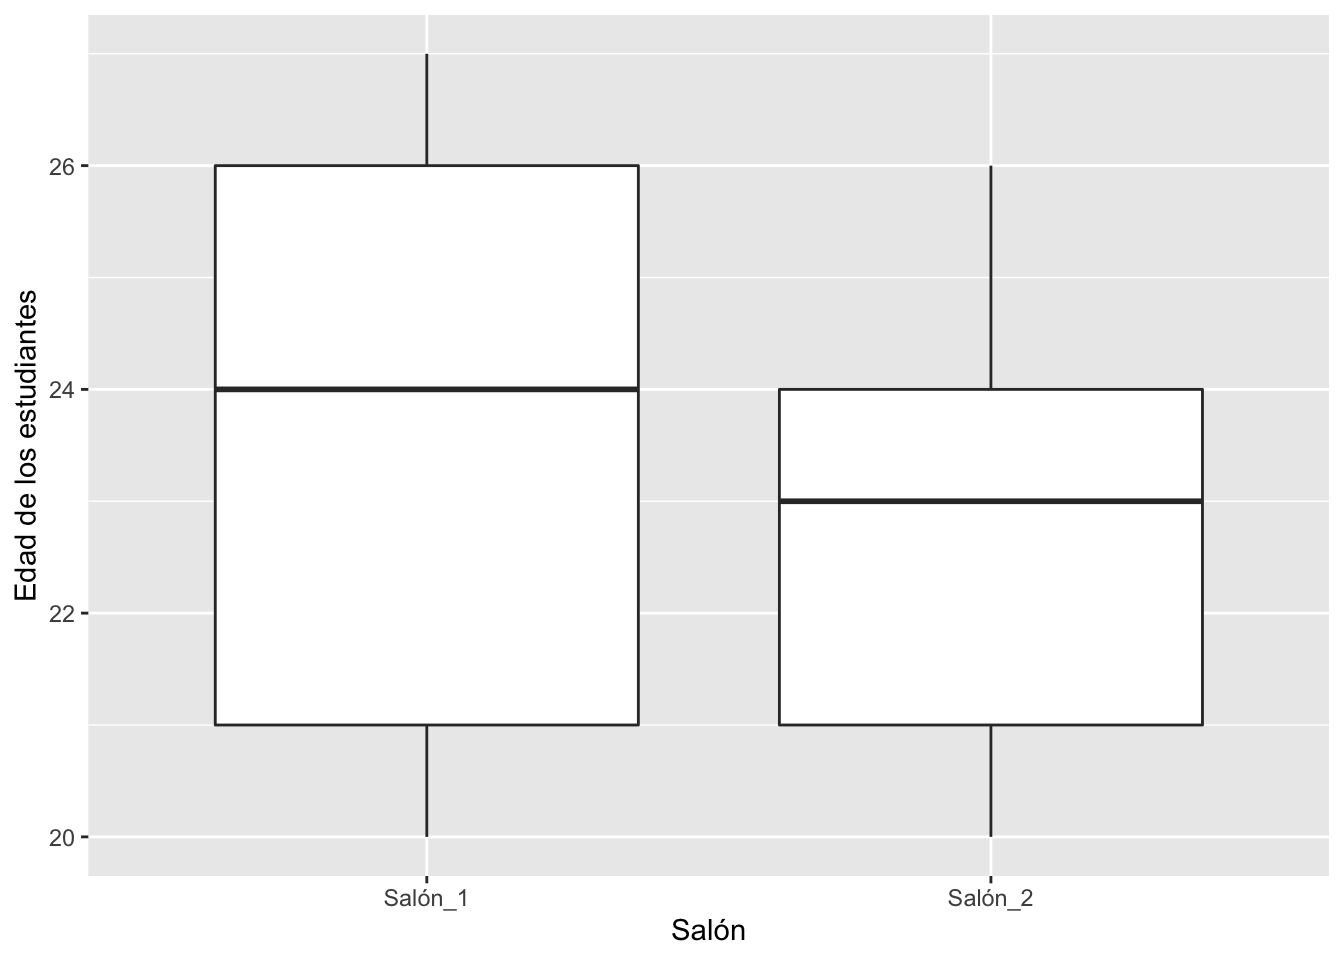
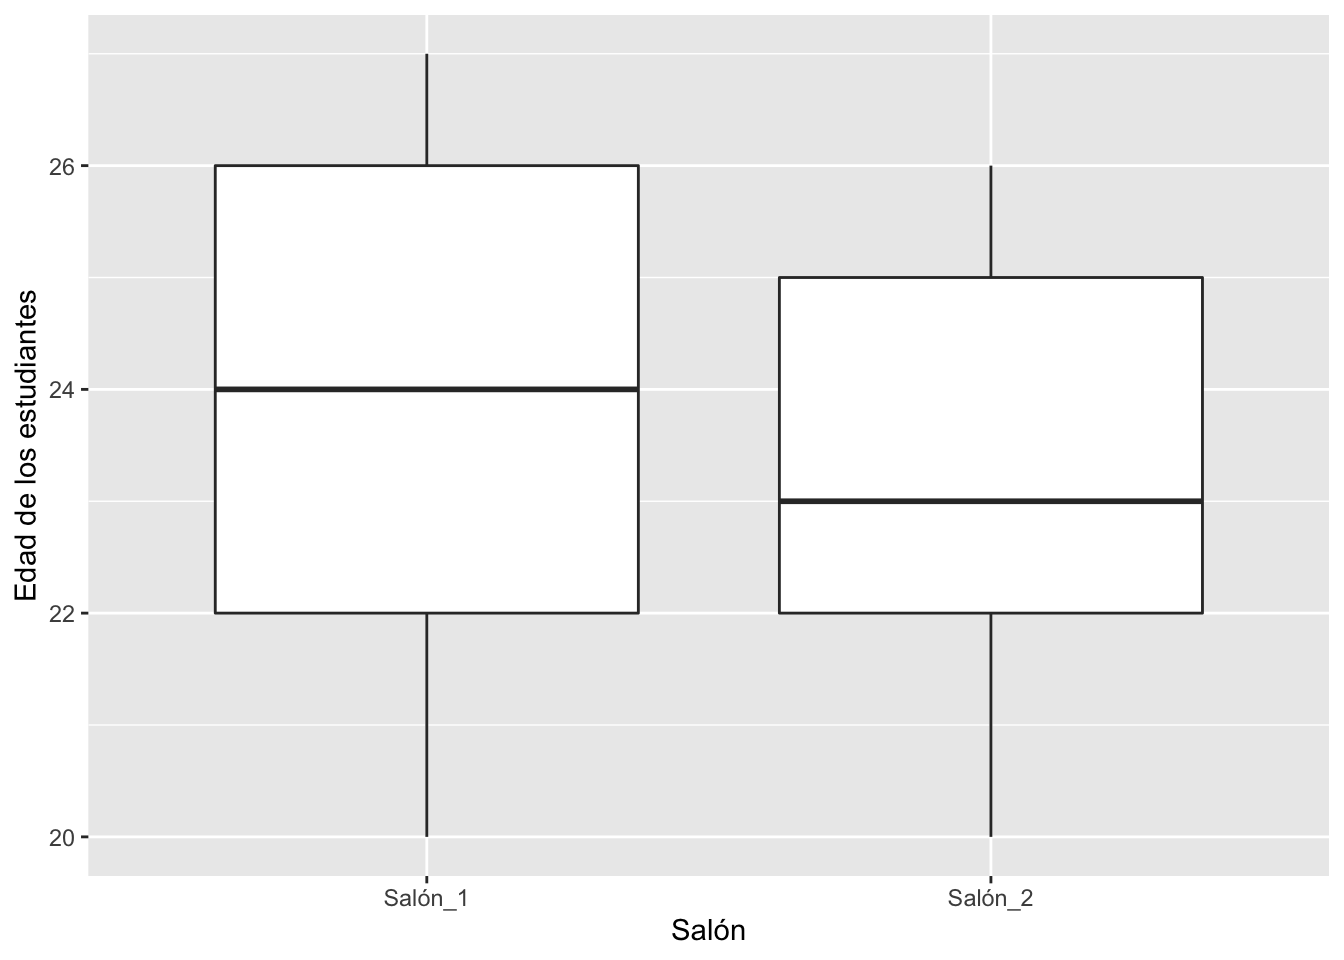
Leve cambio texto G1

Changed region(s): [[0.5625, 0.625, 0.9062, 0.7812], [0.1562, 0.625, 0.5, 0.7812], [0.5625, 0.2812, 0.9062, 0.4062]]

diff --git a/G1-ggplot2.html b/G1-ggplot2.html
@@ -520,17 +520,17 @@ div.tocify {
 <p>Veamos un ejemplo. Si uno lista las edades de estudiantes universitarios de dos salones, tendremos el reto de intentar discernir si sus edades son aproximadamente iguales o diferentes solo al mirar la lista. ¿Será posible? A ver, intenta explicar cuál es la diferencia (si existe alguna) en las edades de las dos listas siguientes.</p>
 <p>Edades del salón 1:</p>
 <pre><code>## $V1
-##   [1] 27 26 24 25 26 21 23 23 20 20 27 23 23 23 21 26 24 26 26 27 20 27 27 20 20
-##  [26] 21 21 26 27 24 25 22 22 25 20 22 27 21 20 20 27 27 23 23 24 20 21 26 26 24
-##  [51] 24 23 23 25 27 27 22 21 25 21 25 26 22 25 26 20 20 26 27 23 24 22 24 27 21
-##  [76] 20 26 24 21 22 23 23 21 26 27 27 21 21 25 21 21 25 23 20 26 24 26 26 26 20</code></pre>
+##   [1] 24 26 20 23 26 23 25 24 26 22 27 25 26 21 25 22 27 20 25 27 24 26 20 24 21
+##  [26] 26 27 27 23 21 26 25 24 27 24 24 25 26 21 24 23 22 26 22 27 23 25 26 27 22
+##  [51] 25 27 21 24 25 21 26 23 23 24 25 23 23 21 20 26 27 25 24 26 20 23 27 22 27
+##  [76] 23 22 25 23 23 26 23 26 24 27 25 23 21 24 22 20 21 27 22 22 21 25 27 23 22</code></pre>
 <hr />
 <p>Edades del salón 2:</p>
 <pre><code>## $V1
-##   [1] 21 21 21 25 21 21 26 23 23 22 21 20 26 20 26 21 21 23 23 26 24 24 25 20 20
-##  [26] 26 21 22 20 24 25 26 23 23 21 21 26 21 26 22 21 22 20 20 25 23 24 25 21 26
-##  [51] 24 25 25 24 24 23 23 25 22 21 24 24 24 21 20 22 21 22 23 24 24 23 21 26 20
-##  [76] 25 20 24 21 24 20 22 21 20 23 25 20 21 23 26 20 20 23 22 24 21 23 22 24 22</code></pre>
+##   [1] 21 23 26 25 22 24 21 21 21 25 21 24 23 22 20 24 26 24 23 20 24 22 25 25 25
+##  [26] 24 20 24 22 21 24 26 21 24 22 23 22 25 25 24 26 23 26 25 22 24 22 25 21 23
+##  [51] 24 22 23 22 26 20 21 24 26 23 26 22 25 20 23 26 24 20 22 25 21 20 24 22 24
+##  [76] 21 21 22 26 22 23 24 21 23 23 24 22 26 21 25 21 25 23 22 24 25 22 20 26 23</code></pre>
 <p>Probablemente notes que no es evidente a primera vista cuál es la diferencia entre las dos listas de datos. Necesitamos ayuda para visualizar la diferencia. A continuación se explican un par de maneras de ver esa misma información.</p>
 <hr />
 <div id="resumir-la-información-en-tablas" class="section level2">
@@ -901,13 +901,13 @@ df%&gt;%
   <tbody class="gt_table_body">
     <tr>
       <td class="gt_row gt_left">Salón_1</td>
-      <td class="gt_row gt_right">23.60</td>
+      <td class="gt_row gt_right">23.97</td>
       <td class="gt_row gt_center">20</td>
       <td class="gt_row gt_center">27</td>
     </tr>
     <tr>
       <td class="gt_row gt_left">Salón_2</td>
-      <td class="gt_row gt_right">22.69</td>
+      <td class="gt_row gt_right">23.11</td>
       <td class="gt_row gt_center">20</td>
       <td class="gt_row gt_center">26</td>
     </tr>
@@ -916,10 +916,11 @@ df%&gt;%
   
 </table></div>
 </div>
-<div id="visualizar-muchos-datos" class="section level2">
-<h2>Visualizar muchos datos</h2>
-<p>Una otra alternativa es visualizar los datos con un gráfico, en este caso se uso una <strong>Boxplot</strong> (Gráfico de caja). Se observa que el promedio es igual y el valor mínimo, y que la única diferencia es solamente el valor máximo en los datos.</p>
-<pre class="r"><code>ggplot(df, aes(y=V1, x=Salón))+
+<div id="cómo-visualizar-muchos-datos" class="section level2">
+<h2>Cómo visualizar muchos datos</h2>
+<p>Llegar a conclusiones prematuras sobre las edades de los estudiantes simplemente con echarle un vistazo rápido nos podría conducir a un error. Una mejor alternativa es visualizar las listas de datos con un gráfico. En ese caso, podemos visualizar esos datos con un gráfico llamado <strong>Diagrama de caja</strong> o <em>Boxplot</em>, como se muestra a continuación. Se observa que el promedio es aproximadamente igual, que ambos muestran valores mínimos idénticos, y que entonces la única diferencia es el valor máximo en los datos. Esa conclusión se pudo alcanzar simplemente produciendo un gráfico. Esa es la importancia de visualizar los datos antes de llegar a conclusiones.</p>
+<pre class="r"><code># para producir un diagrama de caja:
+ggplot(df, aes(y=V1, x=Salón))+
   geom_boxplot()+
   ylab(&quot;Edad de los estudiantes&quot;)</code></pre>
 <p><img src="G1-ggplot2_files/figure-html/unnamed-chunk-8-1.png" width="672" style="display: block; margin: auto;" /></p>
